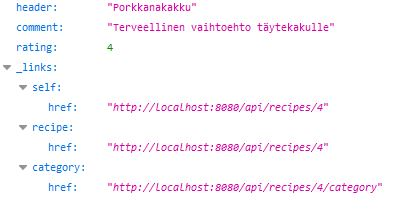
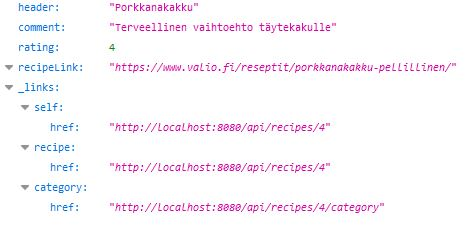
Fixed REST API documentation and minor bugs

diff --git a/src/main/resources/templates/restapi.html b/src/main/resources/templates/restapi.html
@@ -43,6 +43,7 @@ Recipe contains the following attributes:
 		<li>header (String)</li>
 		<li>comment (String)</li>
 		<li>rating (float)</li>
+		<li>recipeLink (String)</li>
 	</ul>
 	
 <p>Category contains the following attributes:</p>
@@ -60,17 +61,17 @@ Recipe contains the following attributes:
 <br/>
 
 <h3>List of recipes</h3>
-<p>You can fetch all recipes by calling /api/recipes endpoint using the GET-method.</p>
+<p>You can fetch all recipes by calling <b>/api/recipes</b> endpoint using the GET-method.</p>
 <img th:src="@{/images/apirecipes.jpg}"/>
 <br/>
 
 <h3>Recipe by id</h3>
-<p>You can fetch a specific recipe by calling /api/recipes/{id} endpoint with the recipe’s id (recipeId) and using the GET-method.</p>
+<p>You can fetch a specific recipe by calling <b>/api/recipes/{id}</b> endpoint with the recipe’s id (recipeId) and using the GET-method.</p>
 <img th:src="@{/images/apirecipeid.jpg}"/>
 <br/>
 
 <h3>List of categories</h3>
-<p>You can fetch all categories by calling /api/categories endpoint using the GET-method.</p>
+<p>You can fetch all categories by calling <b>/api/categories</b> endpoint using the GET-method.</p>
 <img th:src="@{/images/apicategories.jpg}"/>
 
 <br/>

diff --git a/src/main/resources/templates/editrecipe.html b/src/main/resources/templates/editrecipe.html
@@ -59,6 +59,12 @@
 			</div>
 			
 			<div class="form-group">
+			<label style="padding-right: 15px" for="recipeLink">Link</label>
+			<input type="text" id="recipeLink" th:field="*{recipeLink}"/>
+			<label th:if="${#fields.hasErrors('recipeLink')}" th:errors="*{recipeLink}">Link Error</label>
+			</div>
+			
+			<div class="form-group">
 			<label class="dropdown" for="categorylist">Category</label>
 				<select id="categorylist" th:field="*{category}" class="form-control">
 					<option th:each="category : ${categories}" th:value="${category.categoryId}" th:text="${category.categoryName}"></option>

diff --git a/src/main/resources/templates/addrecipe.html b/src/main/resources/templates/addrecipe.html
@@ -62,7 +62,8 @@
 				</tr>
 				<tr>
 					<td style="padding-right: 15px">Link to the recipe:</td>	
-					<td><input type="text" id="comment" placeholder="Link to the recipe webpage" th:field="*{recipeLink}"/></td>		
+					<td><input type="text" id="recipeLink" placeholder="Link to the recipe webpage" th:field="*{recipeLink}"/></td>
+					<td th:if="${#fields.hasErrors('recipeLink')}" th:errors="*{recipeLink}">Link Error</td>		
 				</tr>			
 			</table>
 			

diff --git a/src/main/resources/templates/collections.html b/src/main/resources/templates/collections.html
@@ -36,6 +36,10 @@
 
 <br/>
 
+	<h2>My favourite food blogs and recipe websites</h2>
+
+	<br/>
+
 	<table class="table">
 	<thead class="thead-light">
 		<tr>
@@ -52,9 +56,6 @@
 		</tr>
 		
 	</table>
-
-
-
 
 
 </div>

diff --git a/src/main/java/backend/Reseptipankki/domain/Recipe.java b/src/main/java/backend/Reseptipankki/domain/Recipe.java
@@ -32,6 +32,7 @@ public class Recipe {
 	@NotNull
 	private float rating;
 	
+	@NotNull
 	private String recipeLink;
 	
 	@ManyToOne
@@ -109,9 +110,11 @@ public class Recipe {
 
 	@Override
 	public String toString() {
-		return "Recipe [recipeId=" + recipeId + ", header=" + header + ", comment=" + comment + ", rating="
-				+ rating + ", category=" + category + "]";
+		return "Recipe [recipeId=" + recipeId + ", header=" + header + ", comment=" + comment + ", rating=" + rating
+				+ ", recipeLink=" + recipeLink + ", category=" + category + "]";
 	}
+
+
 
 
 	
